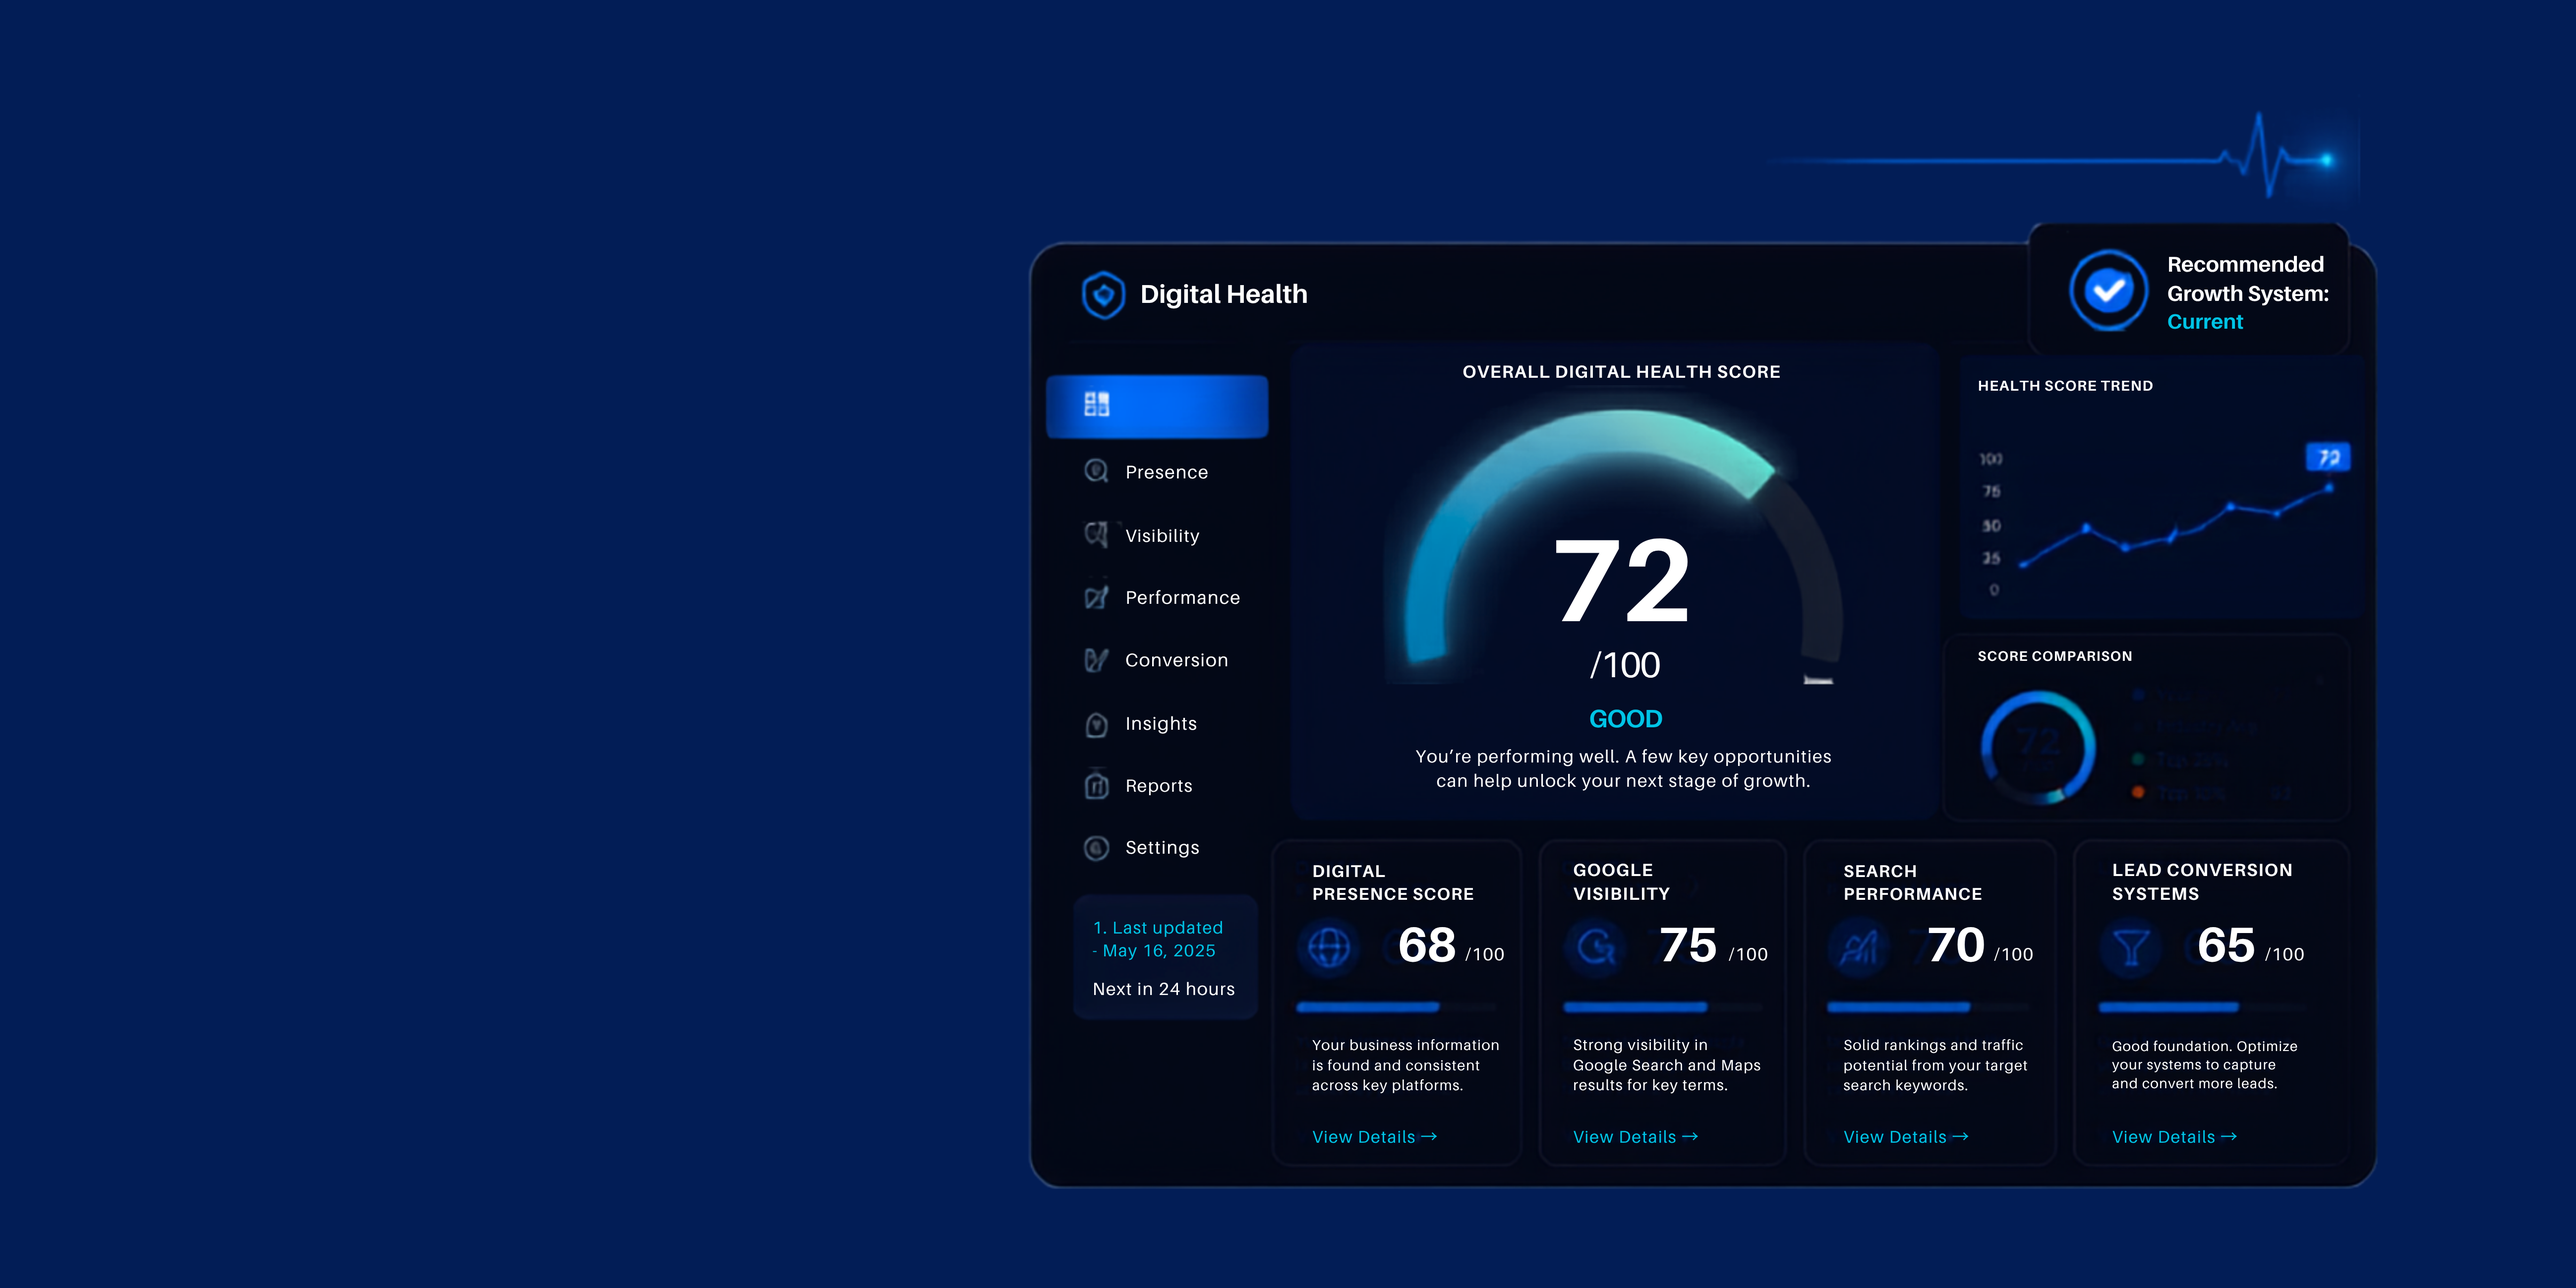
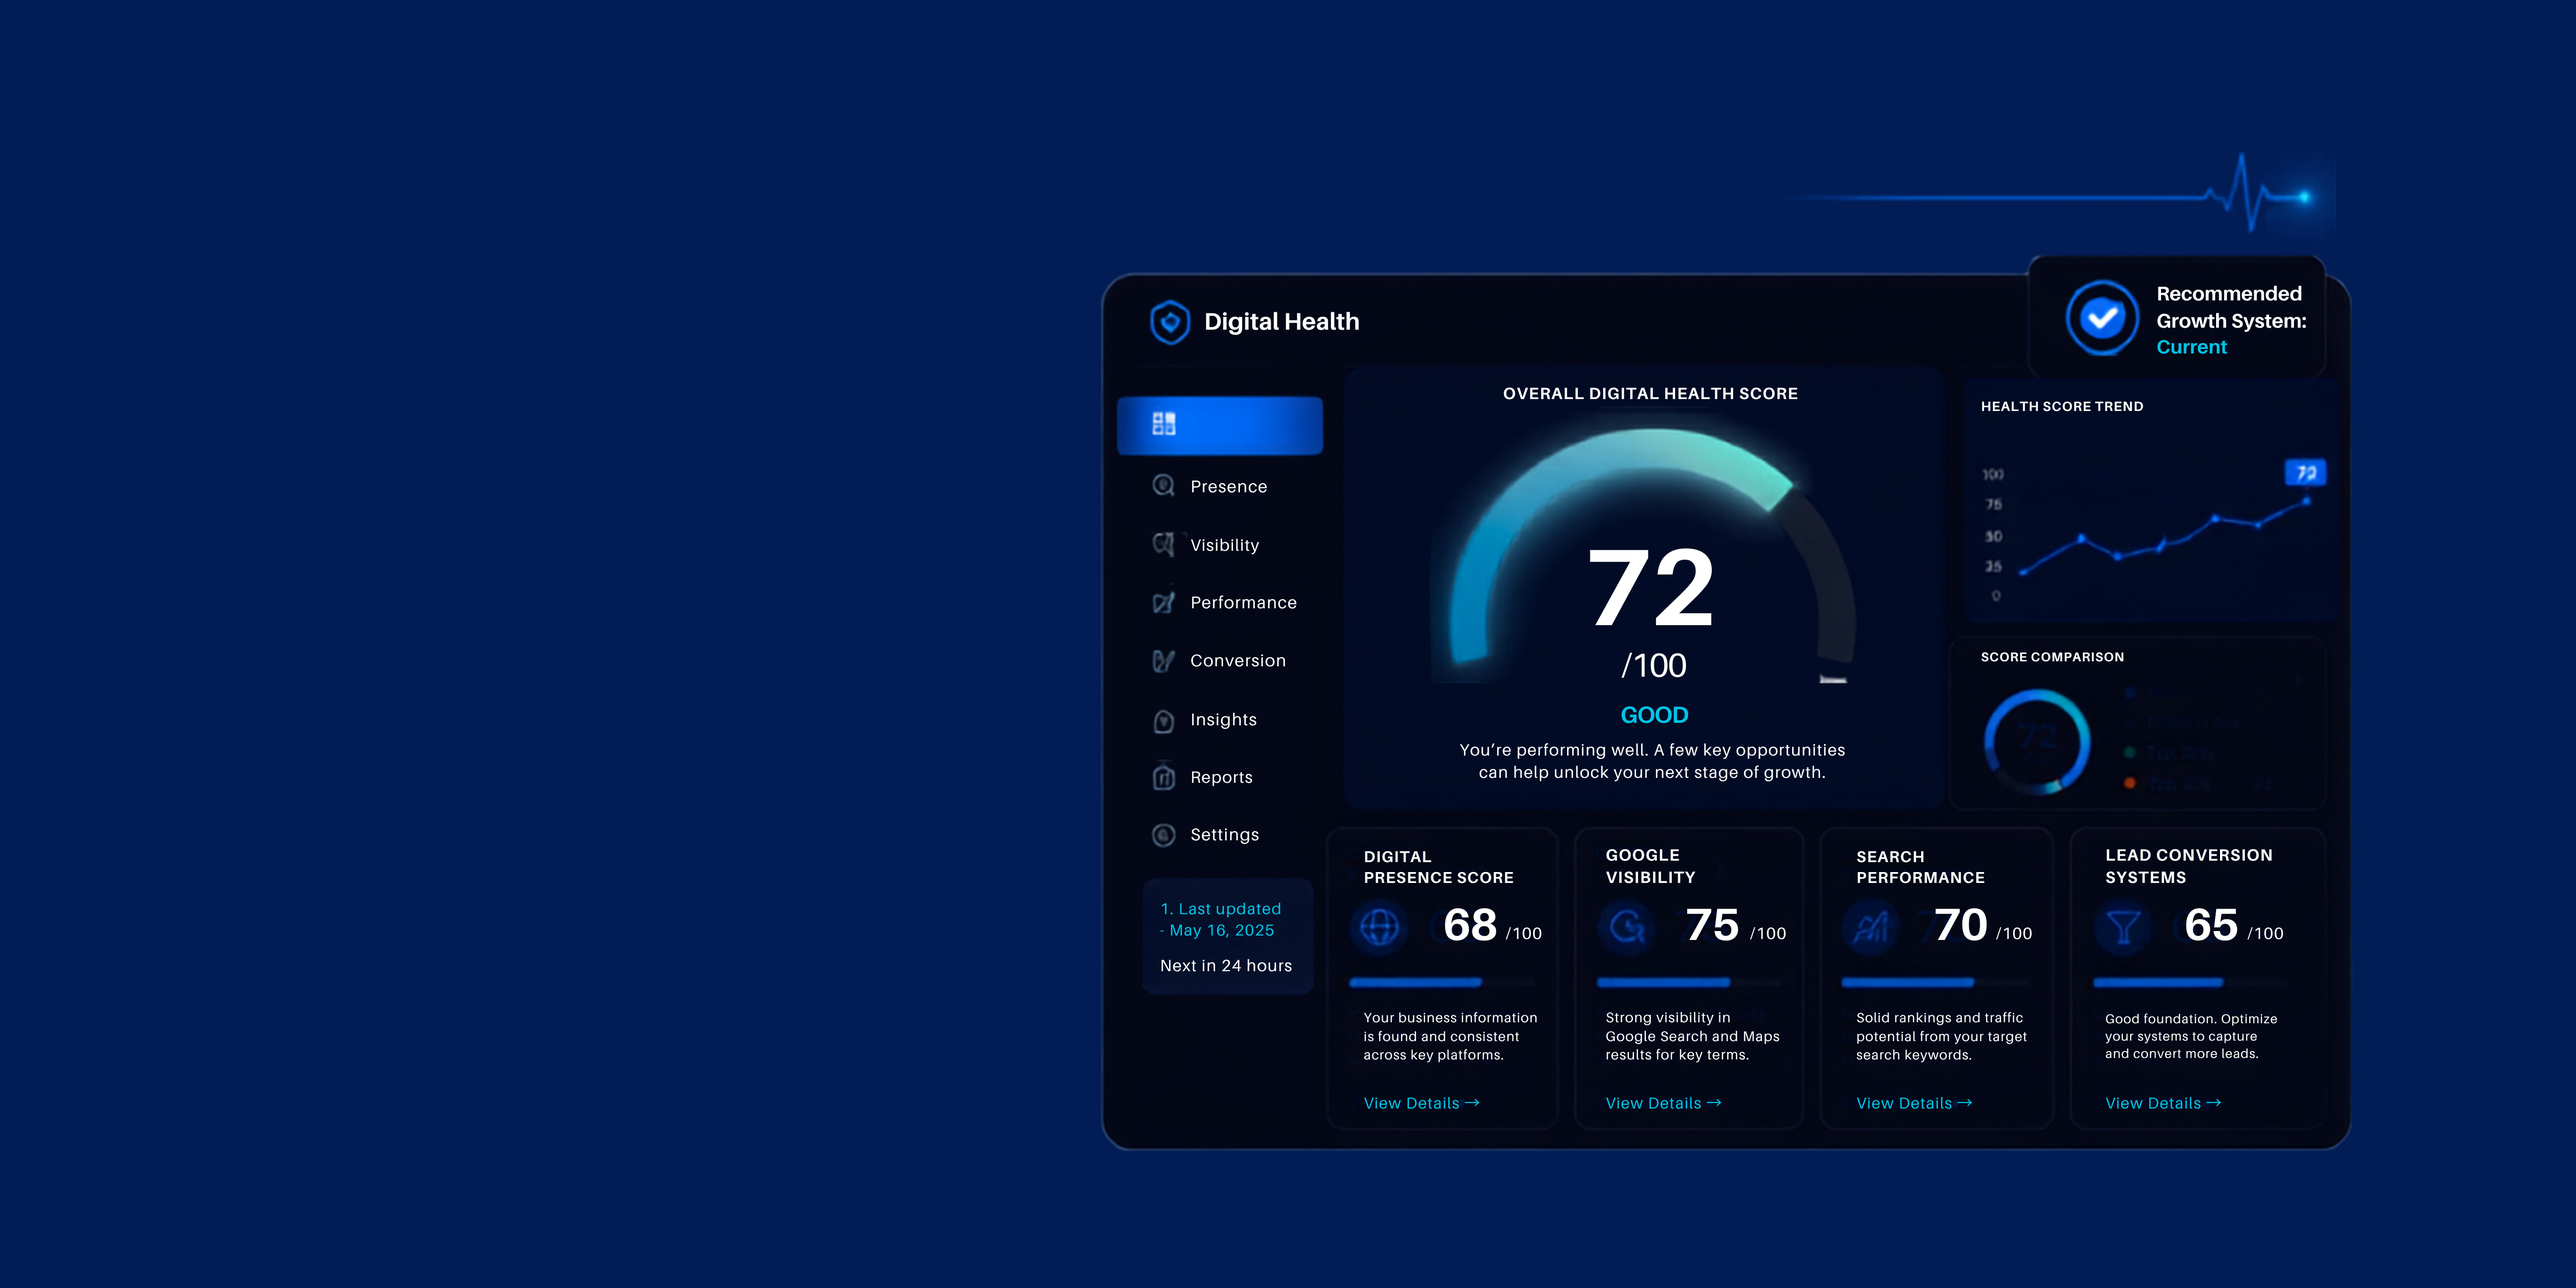
Hero: new dashboard image, object-fit:contain so full dashboard visible, no cutoff

diff --git a/index.html b/index.html
@@ -1935,10 +1935,10 @@ footer .footer-grid{gap:56px !important;}
 <section class="hero" id="home" style="min-height:100vh;position:relative;display:flex;align-items:center;padding:0;margin-bottom:0;overflow:visible;">
 <!-- HERO BACKGROUND: full bleed dashboard image -->
 <div style="position:absolute;inset:0;z-index:0;">
-<img alt="BluWav Digital Health Dashboard" src="hero-main.png" fetchpriority="high" decoding="async" style="width:100%;height:100%;object-fit:cover;object-position:65% center;display:block;filter:brightness(0.9) contrast(1.02) saturate(1.05);"/>
+<img alt="BluWav Digital Health Dashboard" src="hero-main.png" fetchpriority="high" decoding="async" style="width:100%;height:100%;object-fit:contain;object-position:right center;display:block;filter:brightness(0.95) contrast(1.02) saturate(1.05);background:#001828;"/>
 </div>
 <!-- Strong left-to-right gradient: text area fully dark, image visible on right -->
-<div style="position:absolute;inset:0;z-index:1;background:linear-gradient(to right,rgba(0,4,12,1) 0%,rgba(0,4,12,1) 20%,rgba(0,8,20,0.97) 32%,rgba(0,12,28,0.80) 44%,rgba(0,20,40,0.35) 58%,transparent 72%);pointer-events:none;"></div>
+<div style="position:absolute;inset:0;z-index:1;background:linear-gradient(to right,rgba(0,4,12,1) 0%,rgba(0,4,12,1) 18%,rgba(0,8,20,0.96) 30%,rgba(0,12,28,0.70) 42%,rgba(0,20,40,0.20) 54%,transparent 64%);pointer-events:none;"></div>
 <!-- Top/bottom vignette for depth -->
 <div style="position:absolute;inset:0;z-index:1;background:linear-gradient(to bottom,rgba(0,4,12,0.5) 0%,transparent 20%,transparent 75%,rgba(0,4,12,0.6) 100%);pointer-events:none;"></div>
 <!-- TEXT CONTENT: left side, sits on gradient -->
